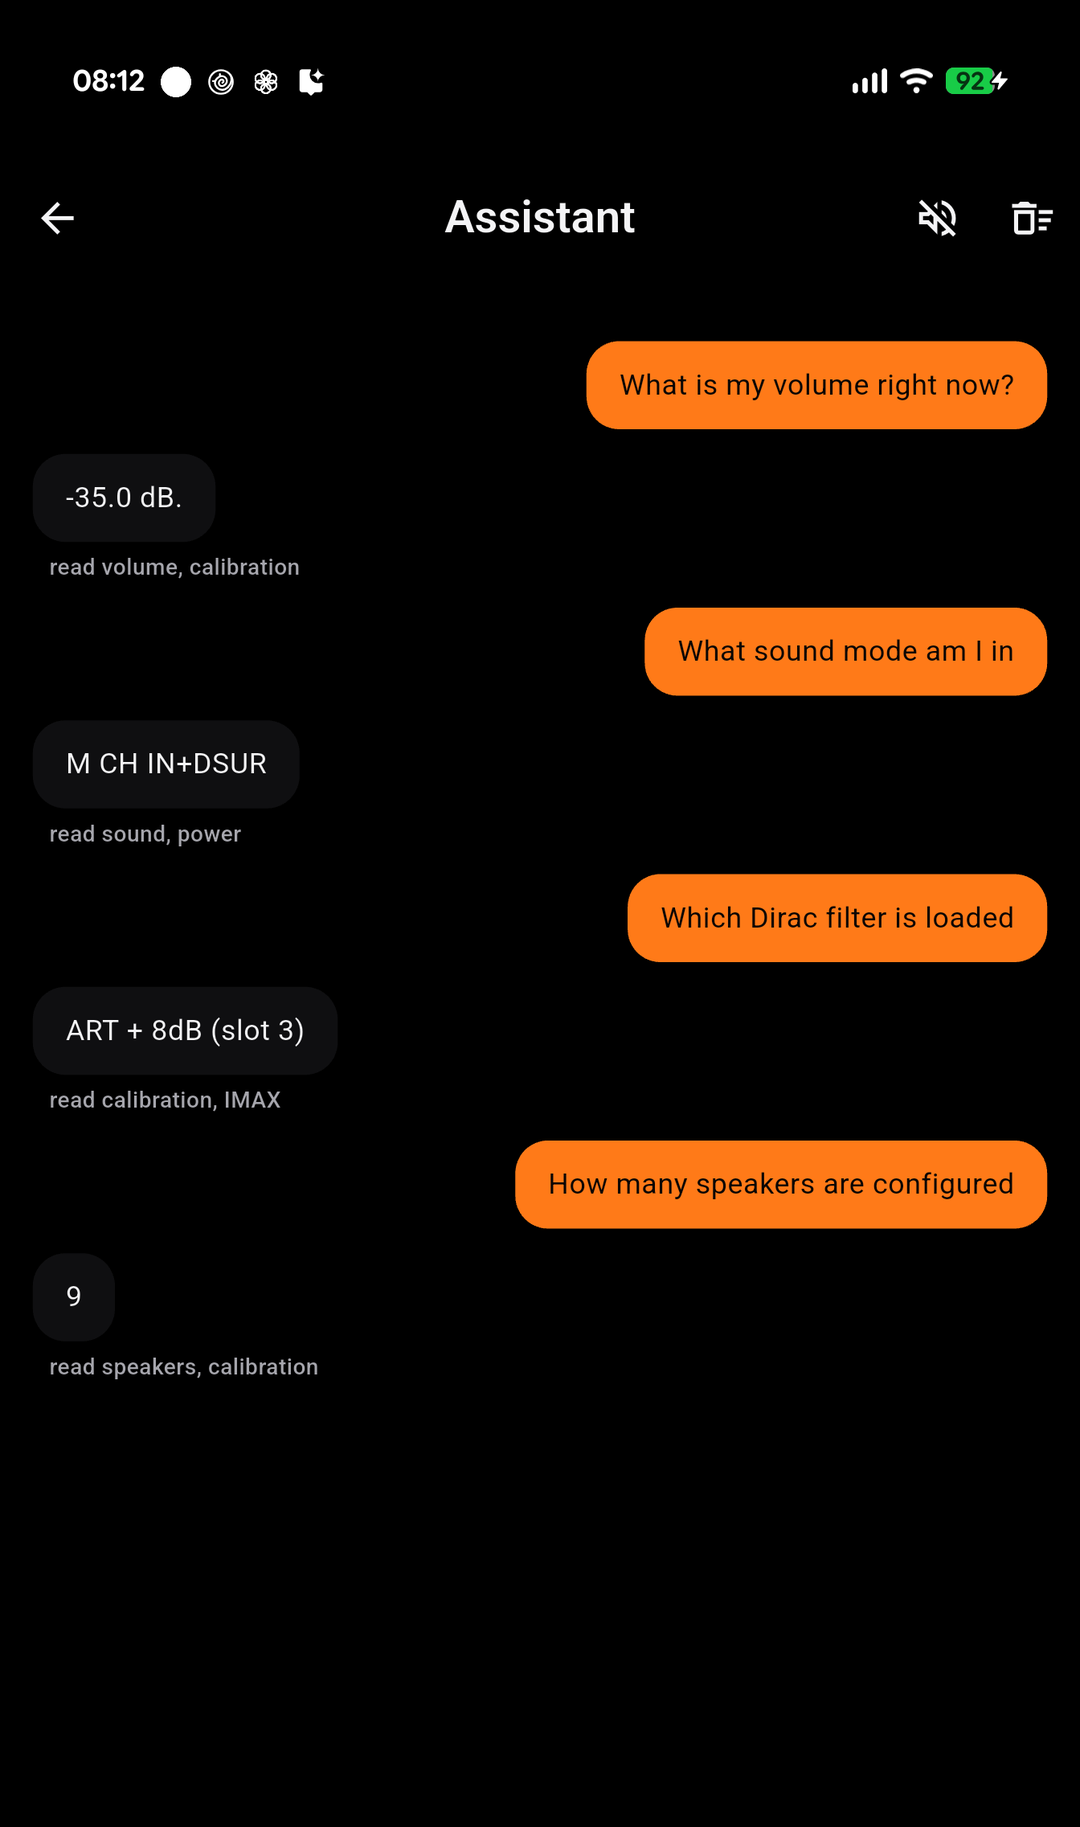
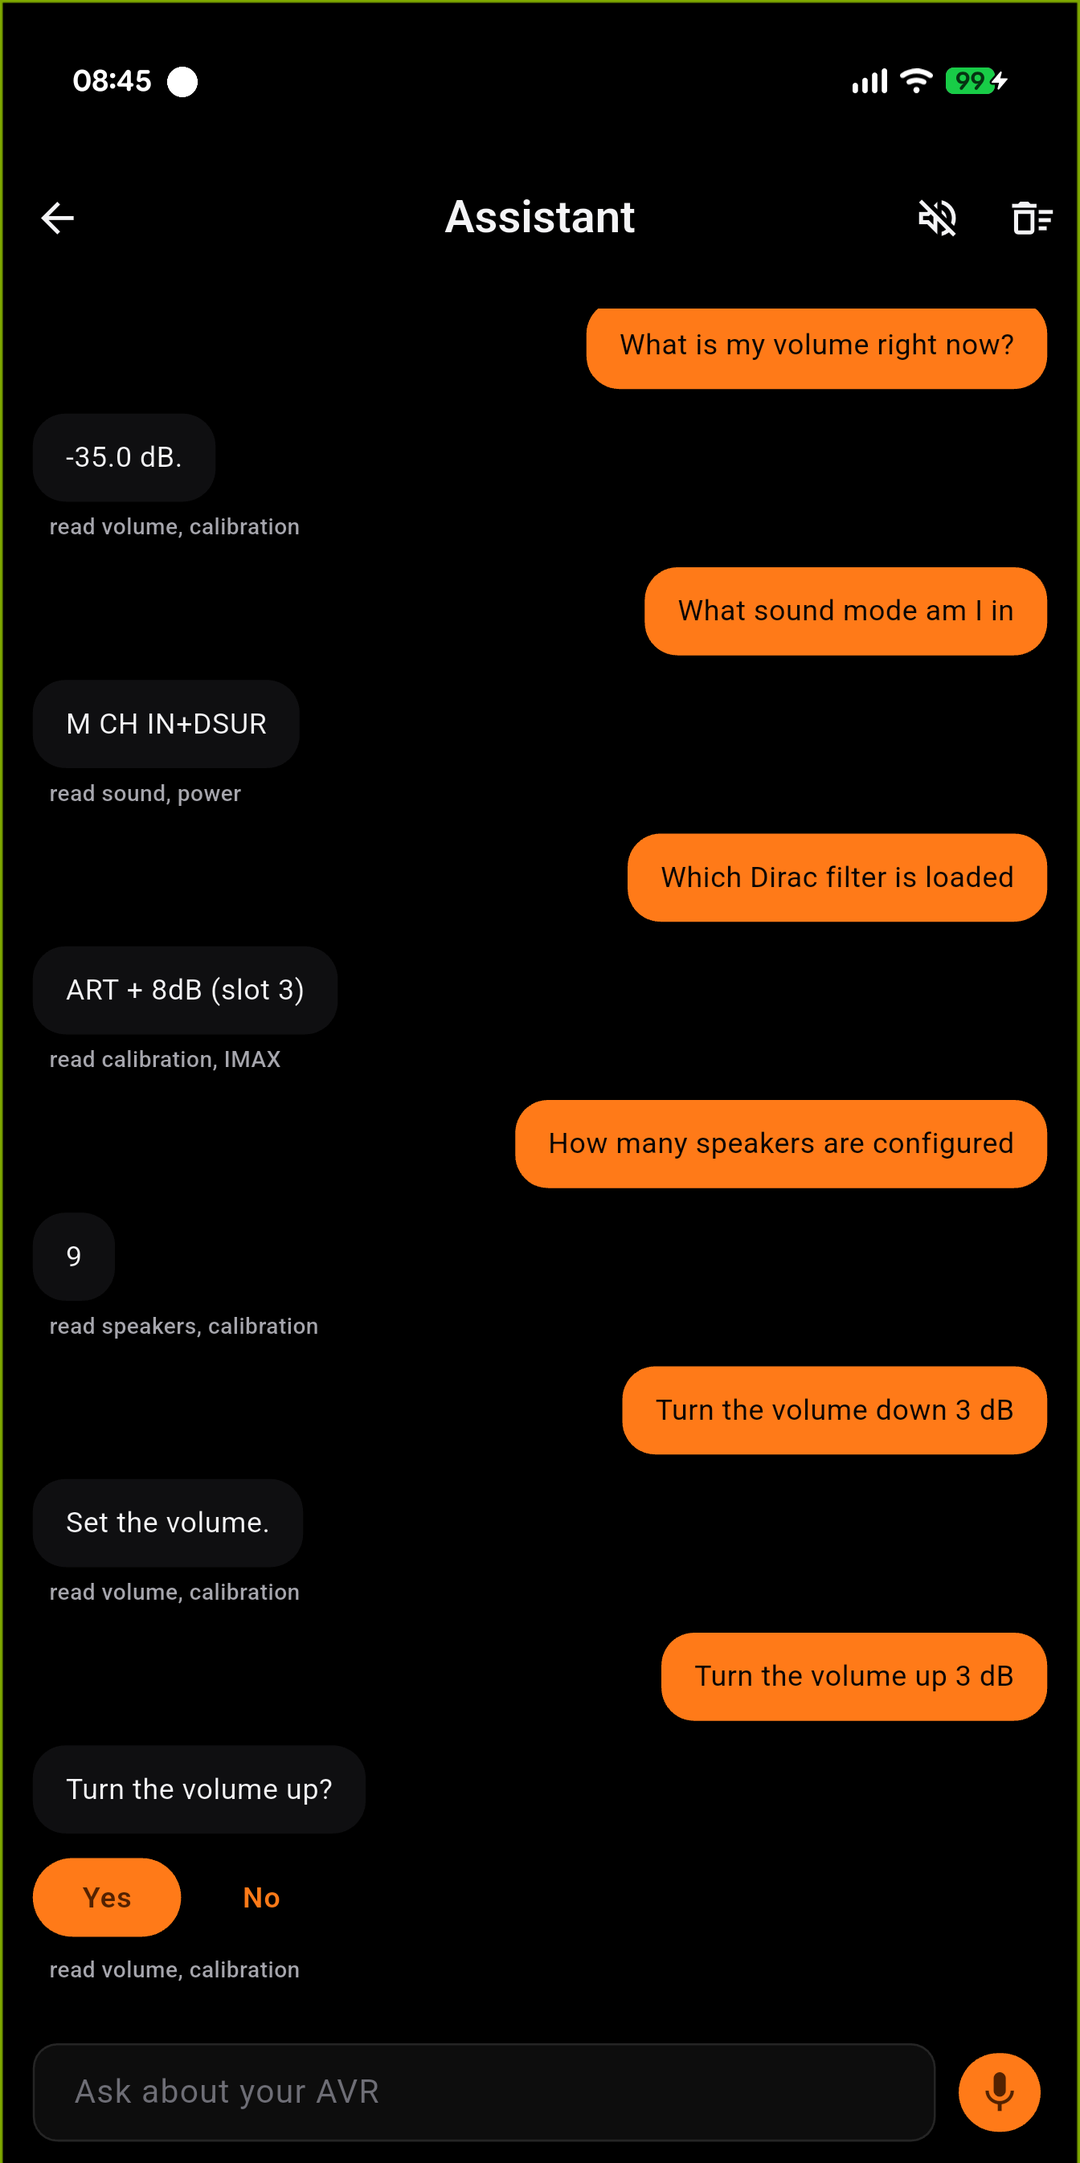
site: the assistant figure shows the safety behaviour, not just the answers (#81)
The page says, in a table, that turning the volume DOWN happens immediately and
turning it UP asks first. That asymmetry is the most interesting thing about the
feature and the picture beside it showed neither - just four reads.

Replaced with a capture that carries the whole story: the four questions with
the subsystems each answer read, then "Turn the volume up 3 dB" held behind a
Yes / No.

Both halves verified against the receiver rather than the screen, on a Cinema 30
at the time of capture:

- "Turn the volume down 3 dB" acted with no dialog and the receiver moved
  -35.0 -> -38.0 dB.
- "Turn the volume up 3 dB" printed the question and the receiver did NOT move.
  Answering No left it at -35.0 and the app said "Left it as it was."

Worth recording why that check happened: the first result looked like a defect,
because the release notes and this page both say anything that would move the
room asks first. It is not one - `kActionRisk` classifies volumeDown as direct
and volumeUp as confirm, deliberately, and `setVolume` is classified at parse
time from the DIRECTION relative to the current level. Lowering the volume
cannot hurt anybody and the moment somebody wants it quieter is the moment they
least want a dialog. Reading the table before filing is the difference between a
finding and a false one.

diff --git a/docs/guide/assistant/index.html b/docs/guide/assistant/index.html
@@ -88,7 +88,7 @@
     <p class="lead">Ask it in your own words. "How loud is it", "what am I watching this on", "which Dirac slot is loaded", "is Dynamic EQ on" - it resolves what you meant against the things your receiver actually reports, so you do not have to know what the setting is called.</p>
     <div class="gallery" style="grid-template-columns:repeat(2,1fr);max-width:640px;margin:30px auto 0">
       <figure><img alt="The assistant's opening screen with suggested questions and a microphone button" src="../../screenshots/assistant.png" /><figcaption>Open it and ask, or tap one of the suggestions</figcaption></figure>
-      <figure><img alt="Four questions answered: the volume in dB, the sound mode, the loaded Dirac filter and the speaker count, each with the subsystems it read underneath" src="../../screenshots/assistant-answers.png" /><figcaption>Every answer prints what it read to produce it</figcaption></figure>
+      <figure><img alt="Four questions answered with the subsystems each answer read, then a request to raise the volume held behind a Yes or No" src="../../screenshots/assistant-answers.png" /><figcaption>Every answer names what it read. Anything that would raise the room asks first</figcaption></figure>
     </div>
   </div>
 </section>
